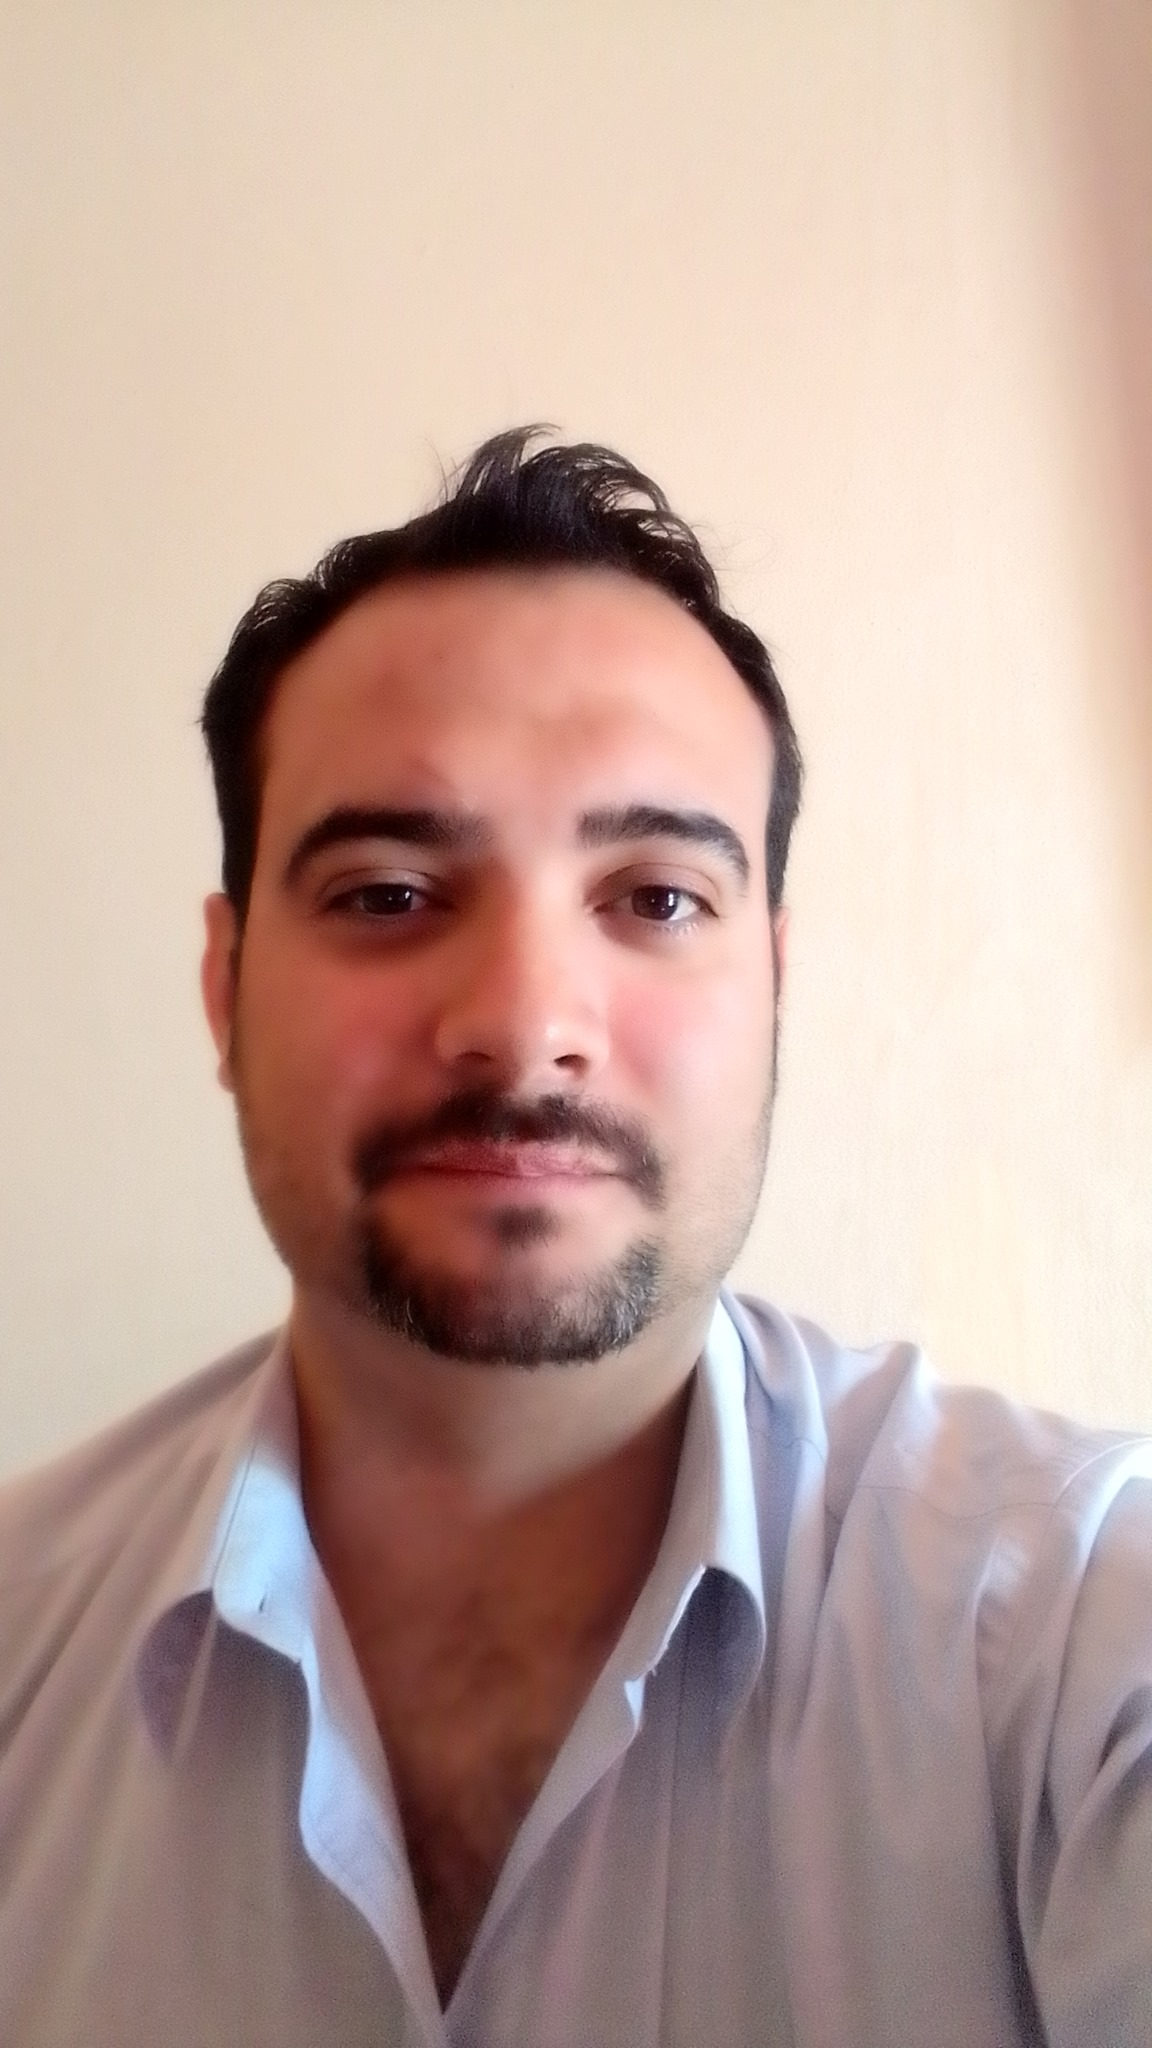
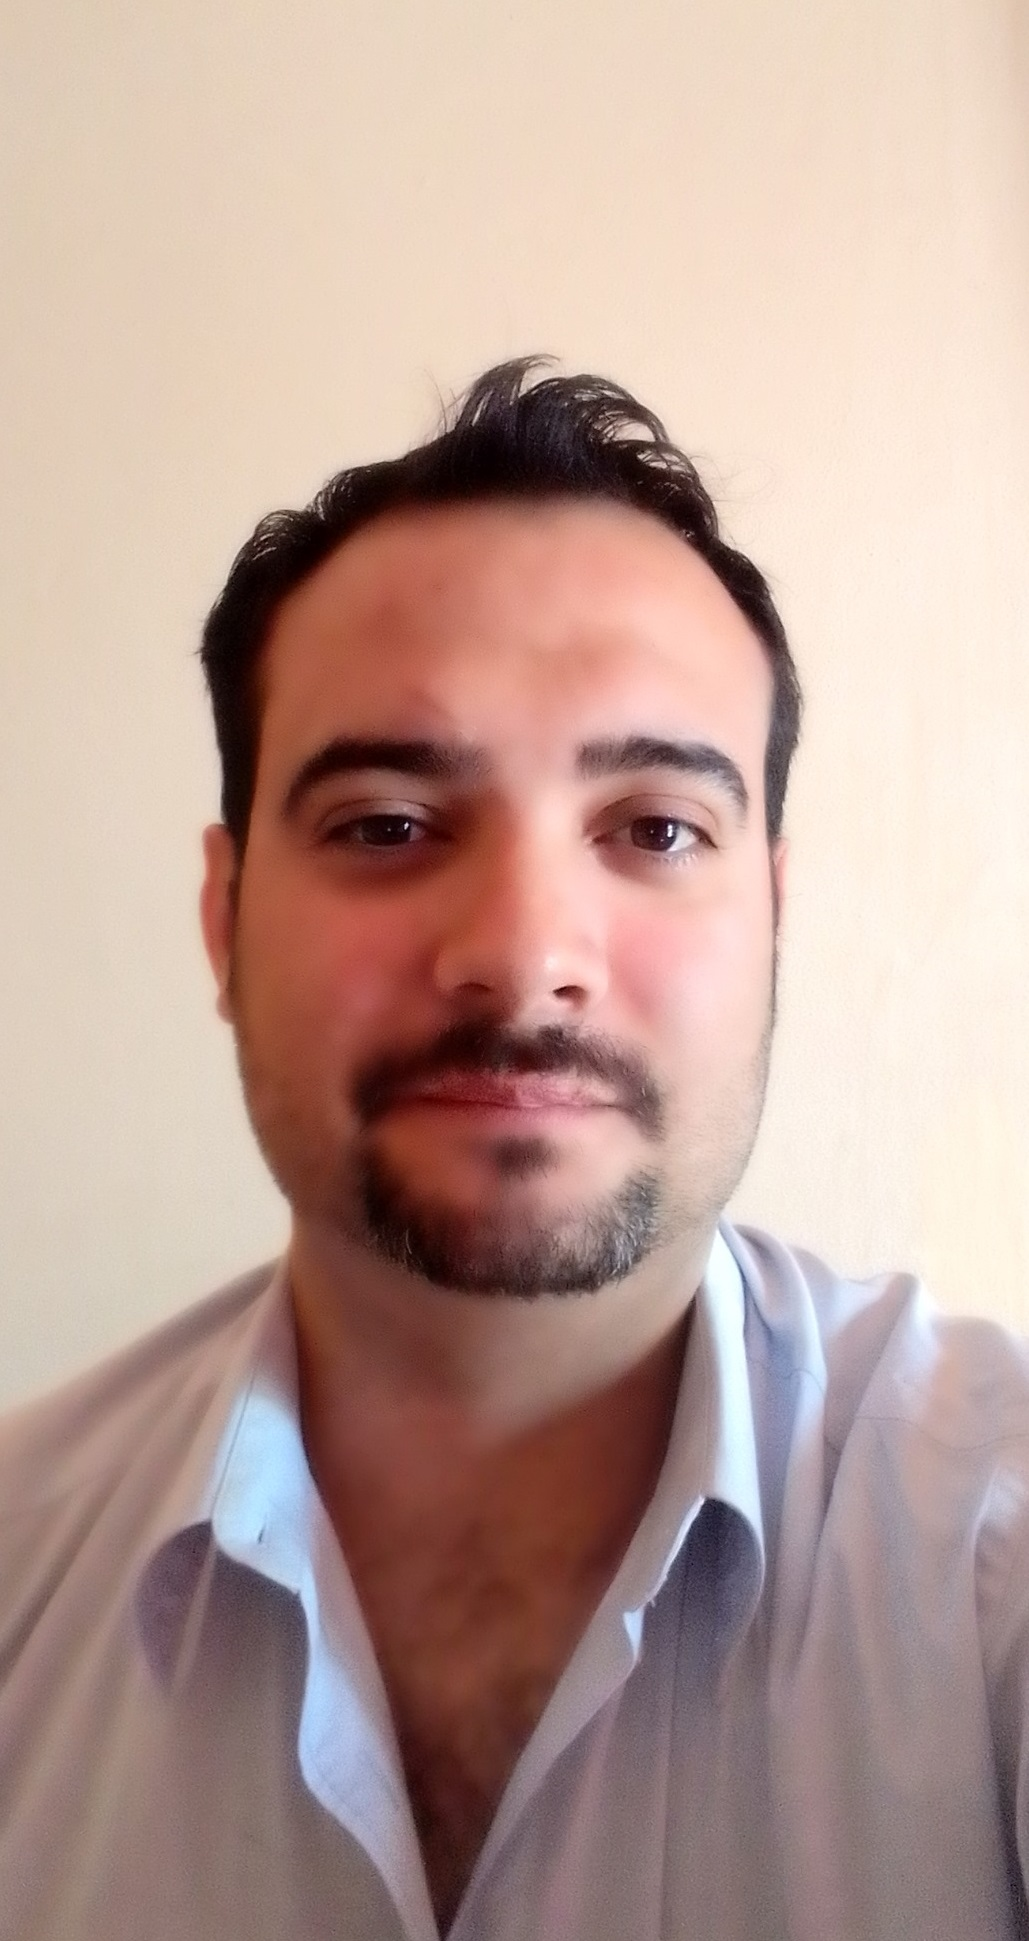
photo center

diff --git a/pfmac/src/app/components/acercade/acercade.component.html b/pfmac/src/app/components/acercade/acercade.component.html
@@ -1,10 +1,10 @@
 <div class="row">
     <div class= "col-xs-12 col-sm-2 col-md-2 col-lg-2">
     <img alt="null" src="../../../assets/perfilfoto.jpg" 
-    class = "img-fluid">
+    class = "img-fluid" id="fotodeperfil">
     </div>
     <div class= "col-xs-12 col-sm-2 col-md-2 col-lg-2">
-        <p>MacKern Jorge P.D.</p>
+        <p id="nombre">MacKern Jorge P.D.</p>
         <p>FullStack Developer Jr.</p>
     </div>
     <div class= "col-xs-12 col-sm-8 col-md-8 col-lg-8">

diff --git a/pfmac/src/app/components/acercade/acercade.component.css b/pfmac/src/app/components/acercade/acercade.component.css
@@ -16,5 +16,17 @@ div{
         width: 15%;
         border-radius: 100%;
         box-shadow: 3px 3px 3px grey;
+        left: 3%;
+        top: 600px;
+    }
+}
+@media (max-width: 575px){
+    #fotodeperfil {
+        position: absolute;
+        width: 30%;
+        border-radius: 100%;
+        box-shadow: 3px 3px 3px grey;
+        left: 33%;
+        top: 630px;
     }
 }
